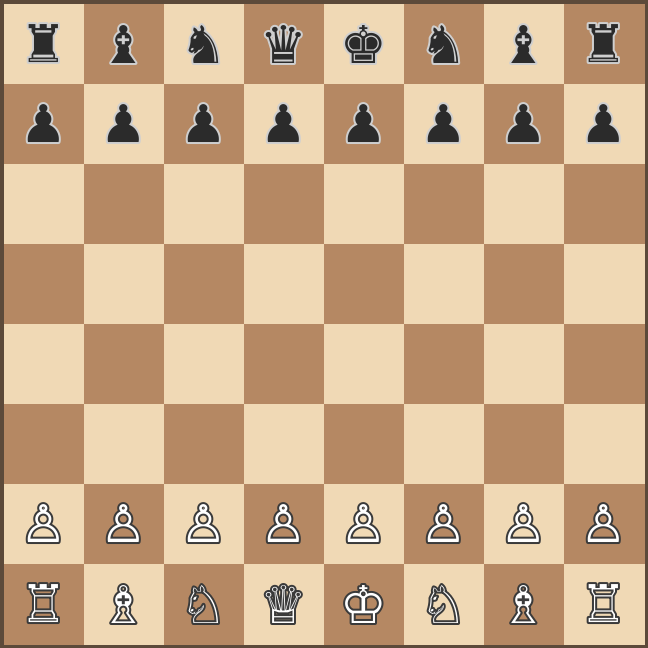
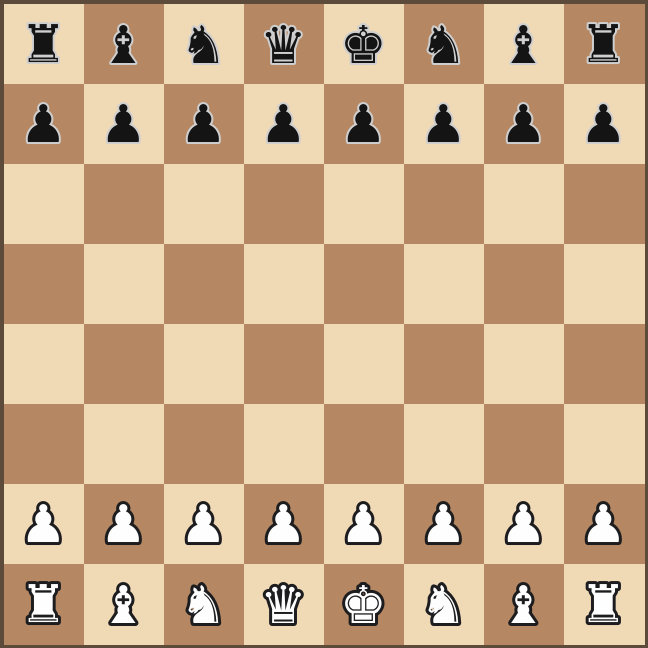
Make white pieces solid-filled glyphs for clear white/black distinction

diff --git a/chess/index.html b/chess/index.html
@@ -57,7 +57,7 @@ font-size:1rem;text-align:center;min-height:20px}
 "use strict";
 /* ---------- state ---------- */
 let S, hist, sel, lastMove, gameOver;
-const GLYPH={w:{k:"♔",q:"♕",r:"♖",b:"♗",n:"♘",p:"♙"},b:{k:"♚",q:"♛",r:"♜",b:"♝",n:"♞",p:"♟"}};
+const GLYPH={w:{k:"♚",q:"♛",r:"♜",b:"♝",n:"♞",p:"♟"},b:{k:"♚",q:"♛",r:"♜",b:"♝",n:"♞",p:"♟"}};
 const VAL={p:1,n:3,b:3,r:5,q:9,k:0};
 function newBoard(){
  const b=[["r","n","b","q","k","b","n","r"],["p","p","p","p","p","p","p","p"],
